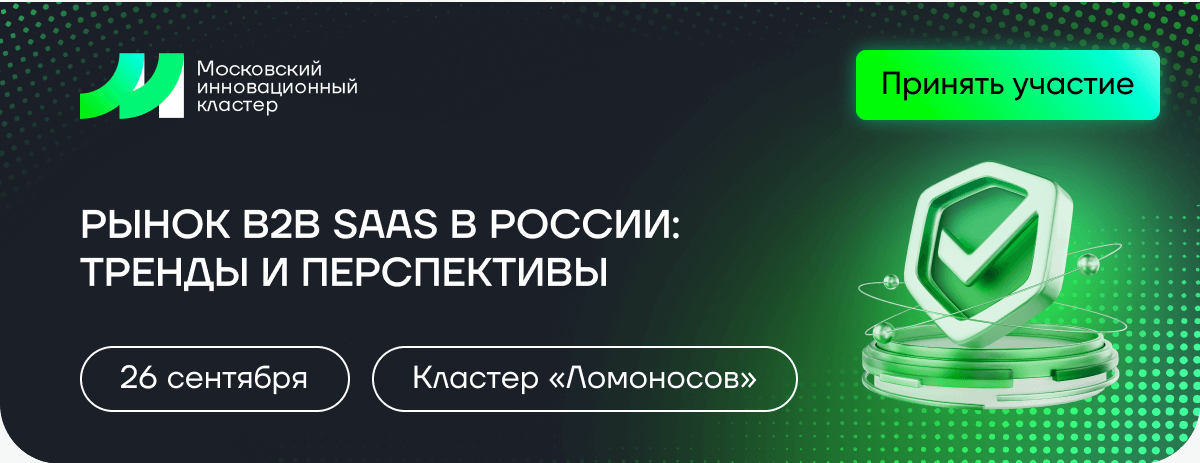
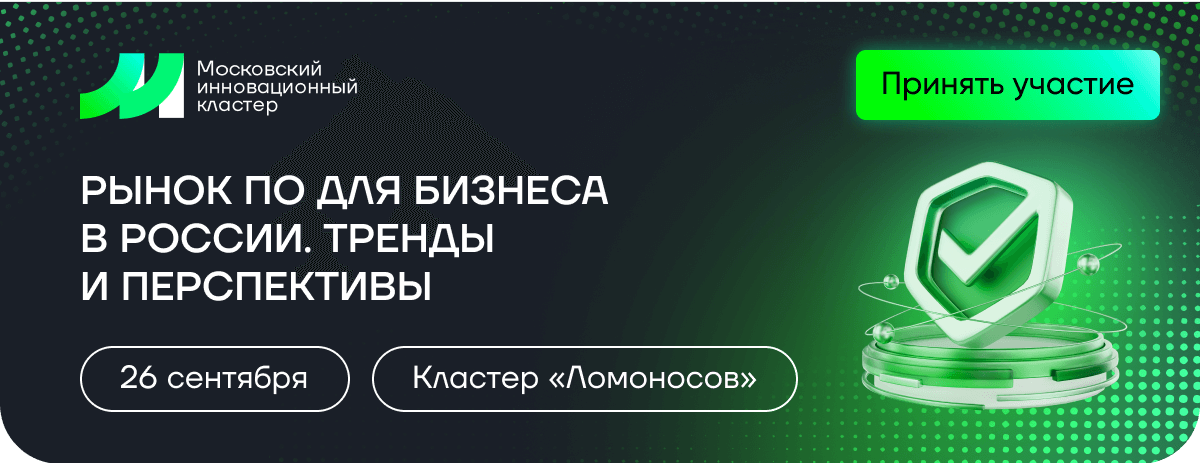
change mik-148

Changed region(s): [[0.0617, 0.121, 0.5858, 0.6652]]

diff --git a/mik-148/Рынок ПО.html b/mik-148/Рынок ПО.html
@@ -103,7 +103,7 @@
                                         <tr>
                                             <td style="width:600px;">
                                                 <a href="https://i.moscow/event/saaspitchsession?utm_source=marketing&utm_medium=e&utm_campaign=digital&utm_content=saas&utm_term=0509" target="_blank">
-                                                    <img alt="Рынок B2B SaaS в России: тренды и перспективы. 26 сентября. Кластер «Ломоносов». Нажмите здесь, чтобы принять участие" height="auto" src="https://cp.unisender.com/ru/user_file?resource=images&user_id=5608985&name=mik-148-hero.png" style="border:0;display:block;outline:none;text-decoration:none;height:auto;width:100%;font-size:13px;" width="600" />
+                                                    <img alt="Рынок ПО для бизнеса в России. Тренды и перспективы. 26 сентября. Кластер «Ломоносов». Нажмите здесь, чтобы принять участие" height="auto" src="https://cp.unisender.com/ru/user_file?resource=images&user_id=5608985&name=mik-148-hero.png" style="border:0;display:block;outline:none;text-decoration:none;height:auto;width:100%;font-size:13px;" width="600" />
                                                 </a>
                                             </td>
                                         </tr>
@@ -153,7 +153,7 @@
                                 <tbody>
                                 <tr>
                                     <td align="left" style="font-size:0px;word-break:break-word;padding-top:15px;">
-                                        <div style="font-family: Gilroy, Helvetica, Arial, sans-serif;font-size:20px;font-weight:400;line-height:24px;text-align:left;color:#FFFFFF;">Московский инновационный кластер приглашает на&nbsp;конференцию <span style="font-weight:600;">«Рынок&nbsp;B2B&nbsp;SaaS в&nbsp;России: тренды и&nbsp;перспективы»</span>, которая пройдет 26&nbsp;сентября в&nbsp;кластере «Ломоносов».</div>
+                                        <div style="font-family: Gilroy, Helvetica, Arial, sans-serif;font-size:20px;font-weight:400;line-height:24px;text-align:left;color:#FFFFFF;">Московский инновационный кластер приглашает на&nbsp;конференцию <span style="font-weight:600;">«Рынок ПО для&nbsp;бизнеса в&nbsp;России. Тренды и&nbsp;перспективы»</span>, которая пройдет 26&nbsp;сентября в&nbsp;кластере «Ломоносов».</div>
                                     </td>
                                 </tr>
                                 </tbody>
@@ -266,7 +266,7 @@
                             <tbody>
                             <tr>
                                 <td align="left" style="font-size:0px;word-break:break-word;padding-top:7px;">
-                                    <div style="font-family: Gilroy, Helvetica, Arial, sans-serif;font-size:20px;font-weight:400;line-height:24px;text-align:left;color:#000000;">Оценки SaaS-стартапов на&nbsp;входе и&nbsp;на&nbsp;выходе, модели заработка для&nbsp;инвесторов</div>
+                                    <div style="font-family: Gilroy, Helvetica, Arial, sans-serif;font-size:20px;font-weight:400;line-height:24px;text-align:left;color:#000000;">Оценки стартапов на&nbsp;входе и&nbsp;на&nbsp;выходе, модели заработка для&nbsp;инвесторов</div>
                                 </td>
                             </tr>
                             </tbody>
@@ -354,7 +354,7 @@
                             <tbody>
                             <tr>
                                 <td align="left" style="font-size:0px;word-break:break-word;padding-top:7px;">
-                                    <div style="font-family: Gilroy, Helvetica, Arial, sans-serif;font-size:20px;font-weight:400;line-height:24px;text-align:left;color:#000000;max-width:410px;width:100%;">Бенчмарки для основных показателей SaaS-стартапов</div>
+                                    <div style="font-family: Gilroy, Helvetica, Arial, sans-serif;font-size:20px;font-weight:400;line-height:24px;text-align:left;color:#000000;max-width:410px;width:100%;">Бенчмарки для основных показателей стартапов в сфере ПО для бизнеса</div>
                                 </td>
                             </tr>
                             </tbody>
@@ -372,14 +372,14 @@
             <table align="center" background="https://cp.unisender.com/ru/user_file?resource=images&user_id=5608985&name=mik-148-bg-2.png" border="0" cellpadding="0" cellspacing="0" role="presentation" style="background:url(https://cp.unisender.com/ru/user_file?resource=images&user_id=5608985&name=mik-148-bg-2.png) center top / cover repeat;background-position:center top;background-repeat:repeat;background-size:cover;width:100%;border-radius:20px;background-color:#1B1F28;">
                 <tbody>
                 <tr>
-                    <td style="direction:ltr;font-size:0px;padding:15px 28px 20px;">
+                    <td style="direction:ltr;font-size:0px;padding:15px 28px 11px;">
                         <!--[if mso | IE]><table role="presentation" border="0" cellpadding="0" cellspacing="0"><tr><td class="" style="vertical-align:top;width:100%" ><![endif]-->
                         <div class="mj-outlook-group-fix" style="font-size:0px;text-align:left;direction:ltr;display:inline-block;vertical-align:top;width:100%;">
                             <table border="0" cellpadding="0" cellspacing="0" role="presentation" style="vertical-align:top;" width="100%">
                                 <tbody>
                                 <tr>
                                     <td align="left" style="font-size:0px;word-break:break-word;">
-                                        <div style="font-family: Gilroy, Helvetica, Arial, sans-serif;font-size:20px;font-weight:400;line-height:24px;text-align:left;color:#FFFFFF;">Также на&nbsp;конференции пройдет питч-сессия проектов по&nbsp;направлению B2B&nbsp;SaaS, в&nbsp;которой примут участие зрелые компании.</div>
+                                        <div style="font-family: Gilroy, Helvetica, Arial, sans-serif;font-size:20px;font-weight:400;line-height:24px;text-align:left;color:#FFFFFF;">Также на&nbsp;конференции пройдет питч-сессия проектов, в&nbsp;которой примут участие <span style="font-weight:500;">«зрелые компании».</span></div>
                                     </td>
                                 </tr>
                                 </tbody>
